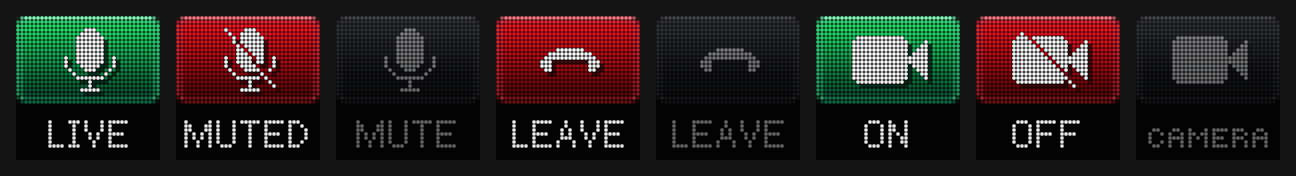
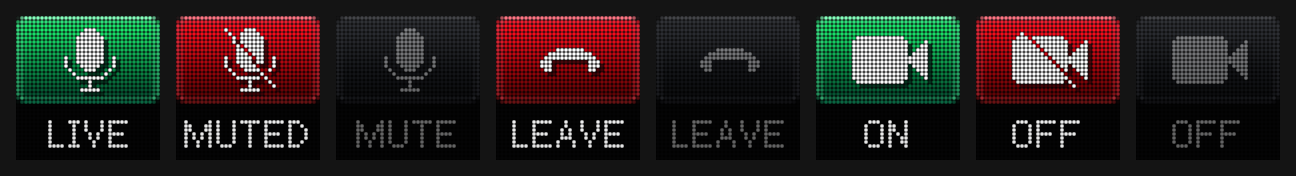
2.10: The Camera key with no call says OFF, in grey
Its picture already says it's the camera, as the Mute key's mic does, so
its word is just the camera's state: green ON, red OFF, and with no call,
OFF in grey (in the 7-row face, as MUTE and LEAVE are) — not VIDEO or
CAMERA. Plugin 1.7.2.

Claude-Session: https://claude.ai/code/session_01ArWV9RxDmGNkgxj16USiLR

Changed region(s): [[0.8642, 0.6818, 0.9877, 0.8523]]

diff --git a/streamdeck/src/key.js b/streamdeck/src/key.js
@@ -266,10 +266,10 @@ export function cameraFace(view) {
   return view.video.on ? 'live' : 'dark';
 }
 
-/* Outside a meeting a key says what it's for, in grey: MUTE, LEAVE, CAMERA
-   (in the 5-row face, as NEARBY is: it's too wide for the 7-row one). The
-   Camera key's colours are Mute's: green when you can be seen, red when you
-   can't. */
+/* Outside a meeting a key says what it's for, in grey: MUTE, LEAVE. The
+   Camera key's picture says what it's for, so its word is the camera's
+   state, as the Mute key's LIVE and MUTED are: green ON when you can be
+   seen, red OFF when you can't, and with no call, OFF in grey. */
 const FACES = {
   'mute:live': { state: 'free', icon: 'mic', word: 'LIVE' },
   'mute:muted': { state: 'call', icon: 'micMuted', word: 'MUTED' },
@@ -280,7 +280,7 @@ const FACES = {
   'leave:idle': { state: 'away', icon: 'handset', word: 'LEAVE', dim: 0.62 },
   'camera:live': { state: 'free', icon: 'camera', word: 'ON' },
   'camera:dark': { state: 'call', icon: 'cameraOff', word: 'OFF' },
-  'camera:idle': { state: 'away', icon: 'camera', word: 'CAMERA', dim: 0.62 }
+  'camera:idle': { state: 'away', icon: 'camera', word: 'OFF', dim: 0.62 }
 };
 export const MEETING_FACES = Object.keys(FACES);
 

diff --git a/streamdeck/test/keys.js b/streamdeck/test/keys.js
@@ -168,6 +168,7 @@ check(() => assert.equal(cameraFace({ state: 'call', moment: null, dnd: false, m
 check(() => assert.equal(cameraFace({ state: 'call', moment: null, dnd: false, meeting: null, video: { on: false } }), 'dark'));
 check(() => assert.ok(MEETING_FACES.includes('camera:live') && MEETING_FACES.includes('camera:dark') && MEETING_FACES.includes('camera:idle')));
 check(() => assert.notEqual(meetingKeyImage('camera', 'live'), meetingKeyImage('camera', 'dark')));
+check(() => assert.notEqual(meetingKeyImage('camera', 'idle'), meetingKeyImage('camera', 'dark')));   // grey OFF isn't red OFF
 for (const face of [...MEETING_FACES.map((f) => f.split(':')), ['leave', 'active', true], ['mute', 'off']]) {
   const frame = drawMeetingKey(...face);
   let lit = 0;

diff --git a/streamdeck/src/meeting-actions.js b/streamdeck/src/meeting-actions.js
@@ -17,8 +17,8 @@
  *   Camera green ON while you're on camera, red OFF while you aren't,
  *          in a Teams or Zoom meeting or a call on the mic (FaceTime,
  *          WhatsApp, Google Meet in a browser); a press turns it off or on
- *          with the call app's own camera button. Dark with no call, CAMERA
- *          in grey
+ *          with the call app's own camera button. Dark with no call, OFF in
+ *          grey
  *
  * A press while the last one is still going is ignored, so mute can't
  * toggle twice. One the app couldn't do shows the warning triangle.

diff --git a/README.md b/README.md
@@ -474,7 +474,7 @@ node and Pillow).
 
 ### Mute and Leave keys, for Teams and Zoom
 
-![Mute, Leave and Camera keys: LIVE in green, MUTED in red, and MUTE in grey outside a meeting; LEAVE in red, and in grey outside a meeting; the camera ON in green, OFF in red with a slash, and CAMERA in grey with no call](docs/stream-deck-meeting-keys.png)
+![Mute, Leave and Camera keys: LIVE in green, MUTED in red, and MUTE in grey outside a meeting; LEAVE in red, and in grey outside a meeting; the camera ON in green, OFF in red with a slash, and OFF in grey with no call](docs/stream-deck-meeting-keys.png)
 
 Two more keys in the same plugin, for the Teams or Zoom meeting you're in.
 The app does the pressing, so the keys, the sign and the settings always
@@ -576,7 +576,8 @@ own camera button, as Mute presses its mute:
 
 - **It shows** green **ON** while you're on camera, red **OFF** (a slashed
   camera) while you aren't, in a Teams or Zoom meeting or a call on the mic;
-  with no call, dimmed, **CAMERA** in grey. In a Teams meeting, ON and OFF
+  with no call, dimmed, **OFF** in grey — the picture says it's the camera, as
+  the Mute key's mic does. In a Teams meeting, ON and OFF
   come from Teams' own camera button, as the sign's do; elsewhere from the
   camera itself — the signal that lights the green light by the lens — so
   they're right whichever app has it.
